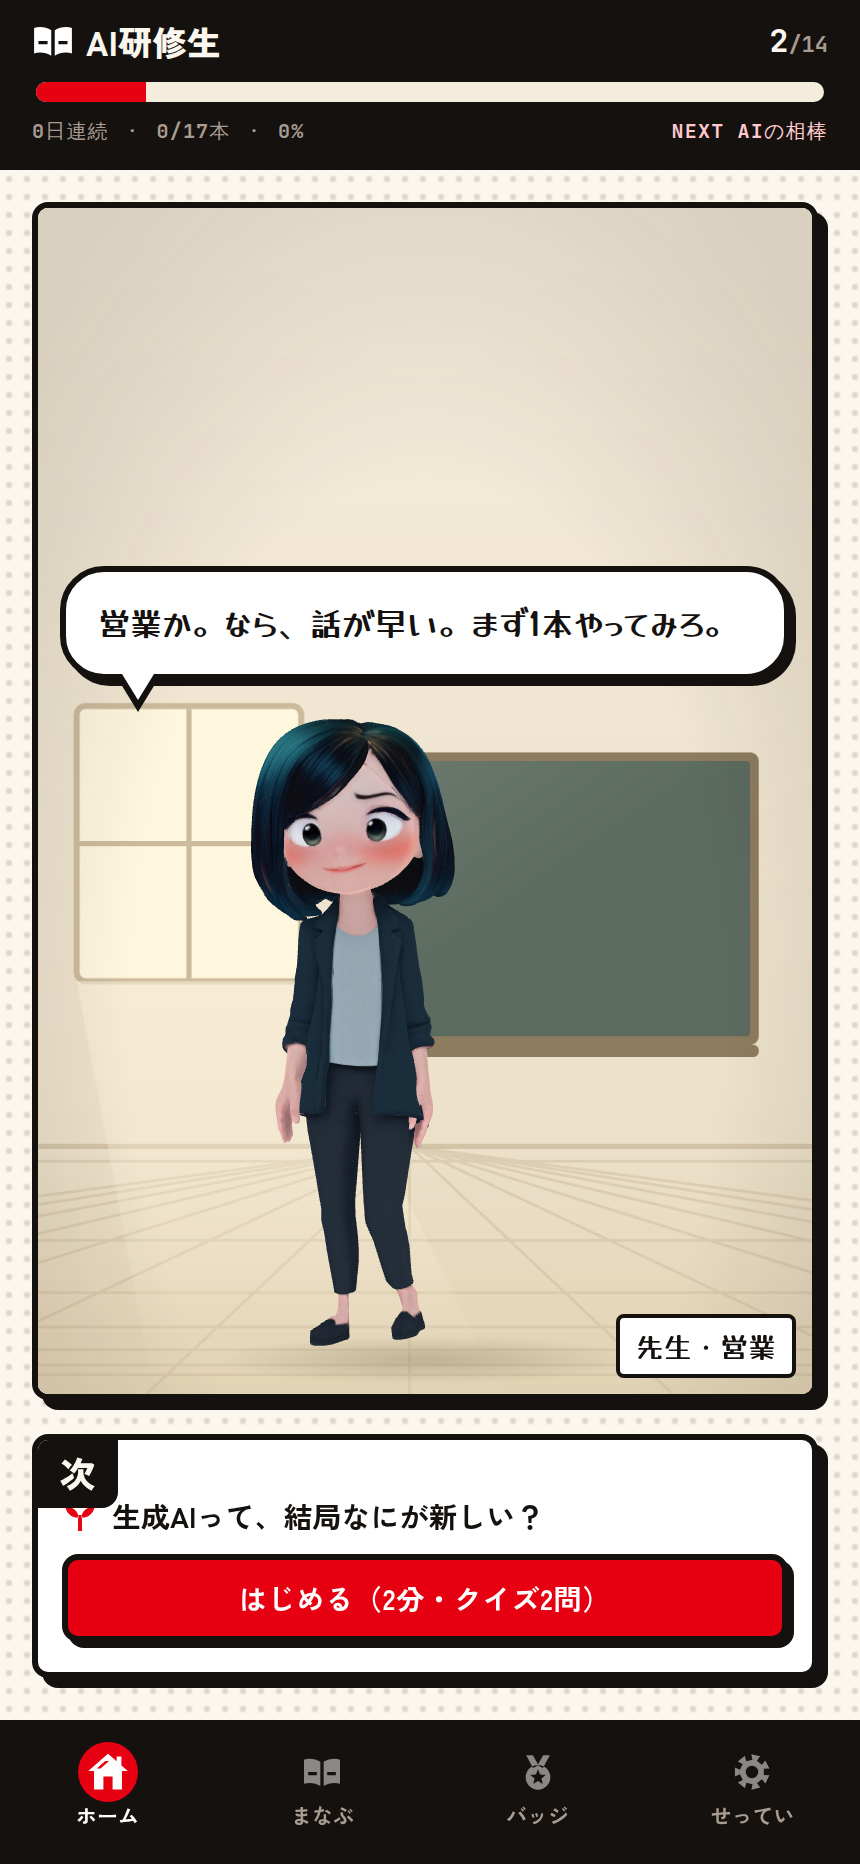
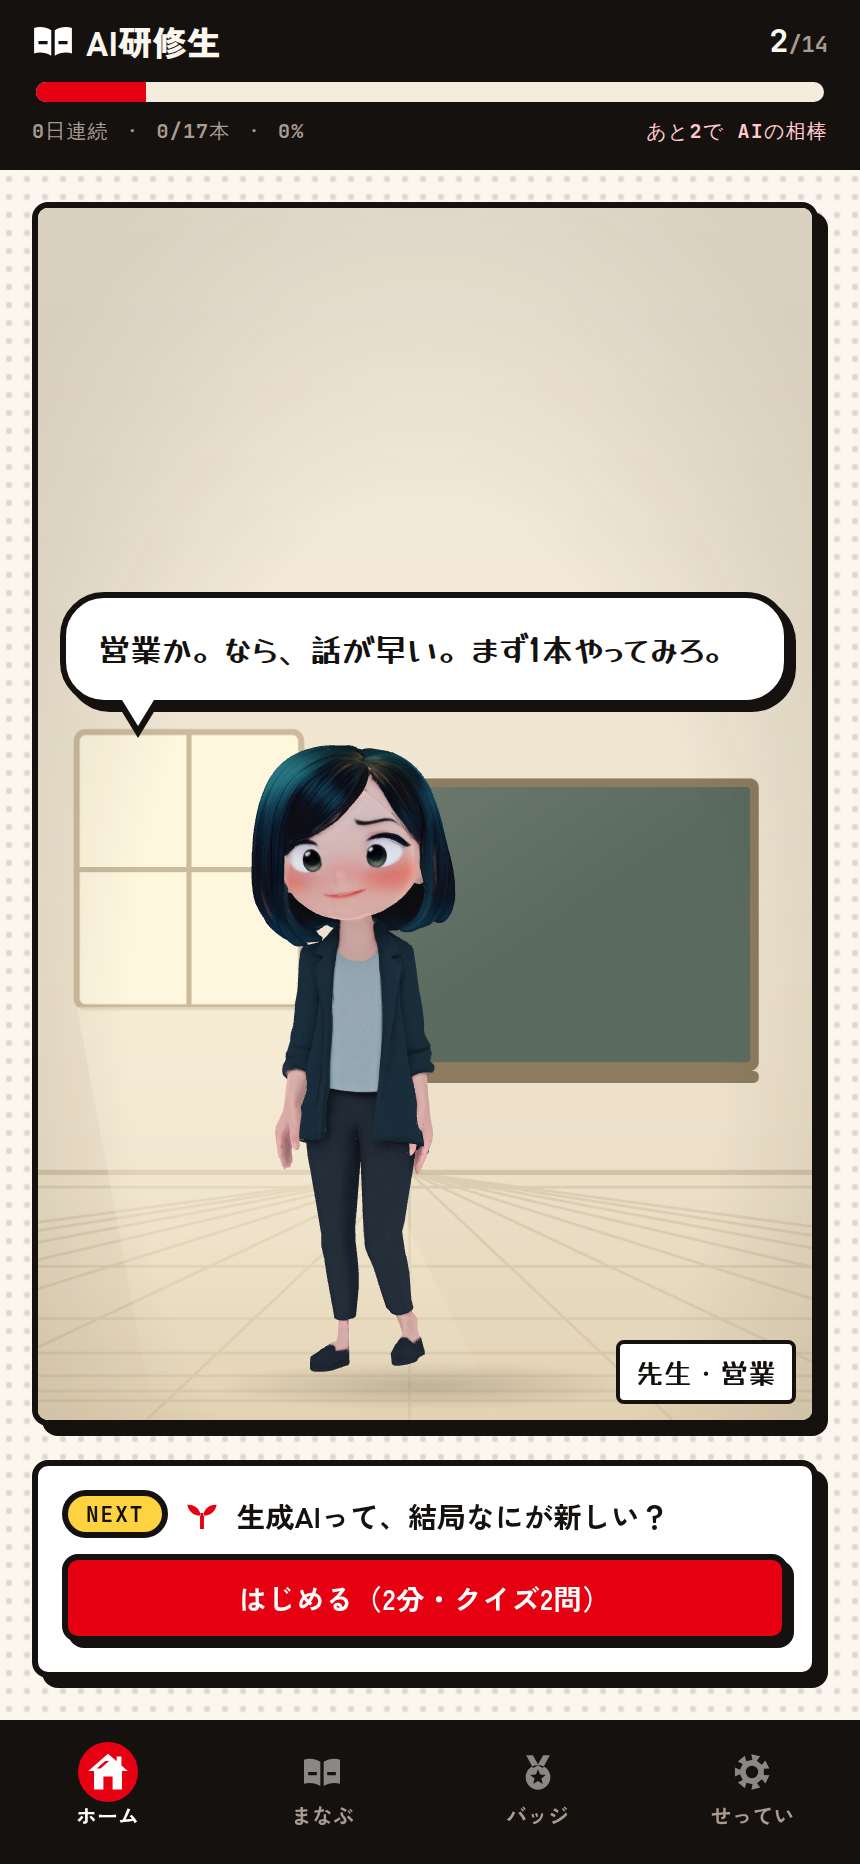
style(academy): 「次にやること」を黄色いNEXTピルにする
コマ番号（左上の黒い角）がコースのアイコンとぶつかっていたので、
行の頭に置く黄色いピルに変えた。
この画面で黄色がどこにも出ていなかったので、ワンポイントとしても効く。

あわせて、ヘッダー右下の「NEXT AIの相棒」を
「あと2で AIの相棒」に変えた。ピルが NEXT を持ったことで、
同じ画面に別の意味のNEXTが2つ出てしまうため。
昇格まであと何個かが読めるようにもなる。

Claude-Session: https://claude.ai/code/session_01L4gqDx6TDHmRb7BpU2Qvjq

diff --git a/ComixaiAcademy/src/app/(tabs)/index.tsx b/ComixaiAcademy/src/app/(tabs)/index.tsx
@@ -22,7 +22,7 @@ import { COURSES } from '@/data/courses';
 import { getRole } from '@/data/roles';
 import { STAGE, STAGE_RATIO, STAGE_WALL } from '@/data/stage';
 import { useProgress, useStats } from '@/store/progress';
-import { C, F, FONT, S, T } from '@/theme';
+import { BW, C, F, FONT, R, S, T } from '@/theme';
 
 /** アバターをつついたときに出る、どうでもいい雑談 */
 const SMALL_TALK: { say: string; motion: AvatarMotion; emote?: IconName }[] = [
@@ -110,8 +110,10 @@ export default function HomeScreen() {
         <Text style={{ fontFamily: FONT.mono, fontSize: 10, color: C.ink300, letterSpacing: 0.6 }}>
           {stats.streak}日連続 ・ {stats.doneCount}/{stats.total}本 ・ {stats.percent}%
         </Text>
+        {/* 「NEXT」は下のカードの黄色いピルが持っているので、こちらは使わない
+            （同じ画面に別の意味のNEXTが2つ出る）。あと何個で上がるかを出す */}
         <Text style={{ fontFamily: FONT.mono, fontSize: 10, color: C.red100, letterSpacing: 0.6 }}>
-          {upcoming ? `NEXT ${upcoming.name}` : 'MAX'}
+          {upcoming ? `あと${upcoming.need - stats.badgeCount}で ${upcoming.name}` : 'MAX'}
         </Text>
       </Row>
     </View>
@@ -164,11 +166,26 @@ export default function HomeScreen() {
       </Panel>
 
       {/* ———— 次にやること ————
-           padding は paddingTop より後に書くと上書きしてしまうので順番に注意
-           （コマ番号の下に文字が潜り込む） */}
+           コマ番号（左上の黒い角）はやめて、行の頭に黄色いピルを置く。
+           角に重ねるとコースのアイコンとぶつかるうえ、この画面で
+           黄色がどこにも出ていなかったので、ここをワンポイントにする */}
       {next ? (
-        <Panel number="次" contentStyle={{ padding: S.md, paddingTop: S.xl + 2, gap: S.sm }}>
-          <Row gap={7}>
+        <Panel contentStyle={{ padding: S.md, gap: S.sm }}>
+          <Row gap={8}>
+            <View
+              style={{
+                backgroundColor: C.yellow400,
+                borderWidth: BW.bold,
+                borderColor: T.border,
+                borderRadius: R.full,
+                paddingHorizontal: 9,
+                paddingVertical: 2,
+              }}>
+              <Text
+                style={{ fontFamily: FONT.mono, fontSize: 10.5, letterSpacing: 1, color: C.ink900 }}>
+                NEXT
+              </Text>
+            </View>
             <Icon name={next.course.icon} size={18} color={T.accent} />
             <Text style={[F.strong, { fontSize: 14.5, flex: 1 }]} numberOfLines={1}>
               {next.lesson.title}
